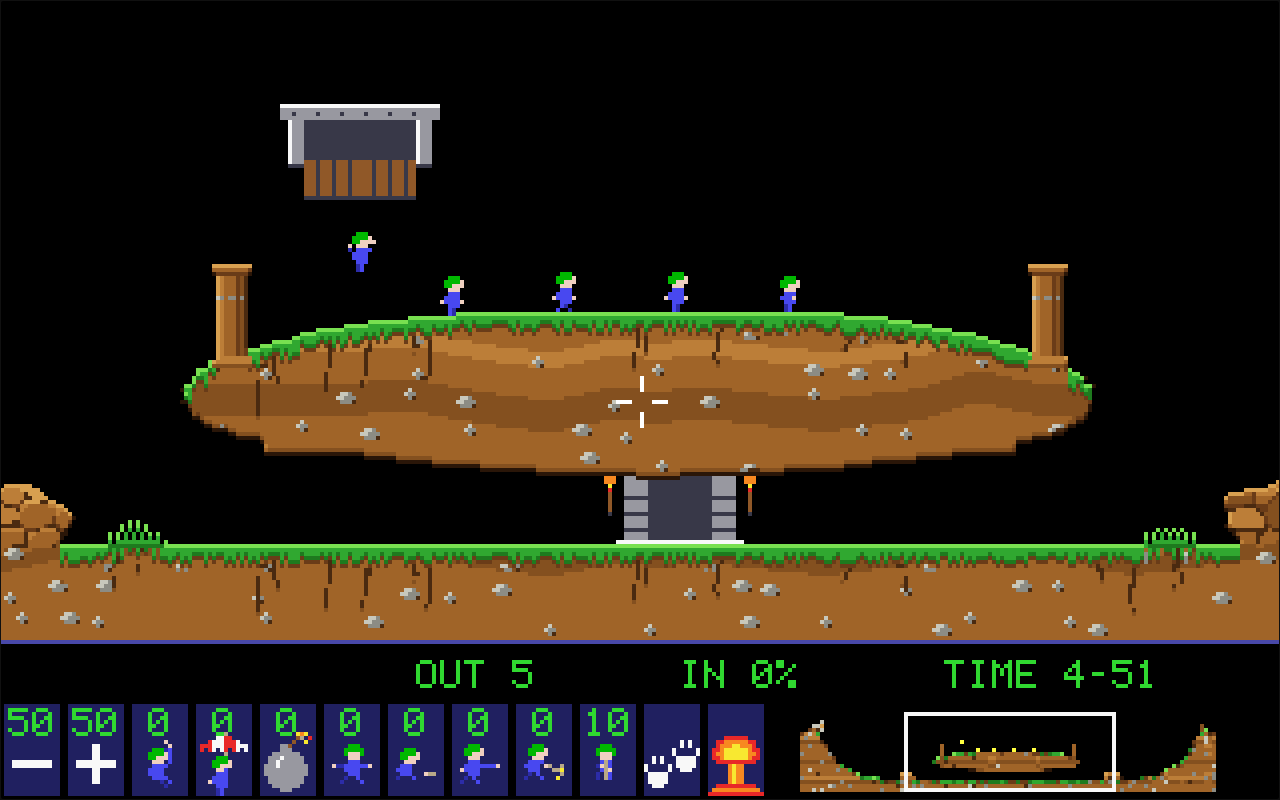
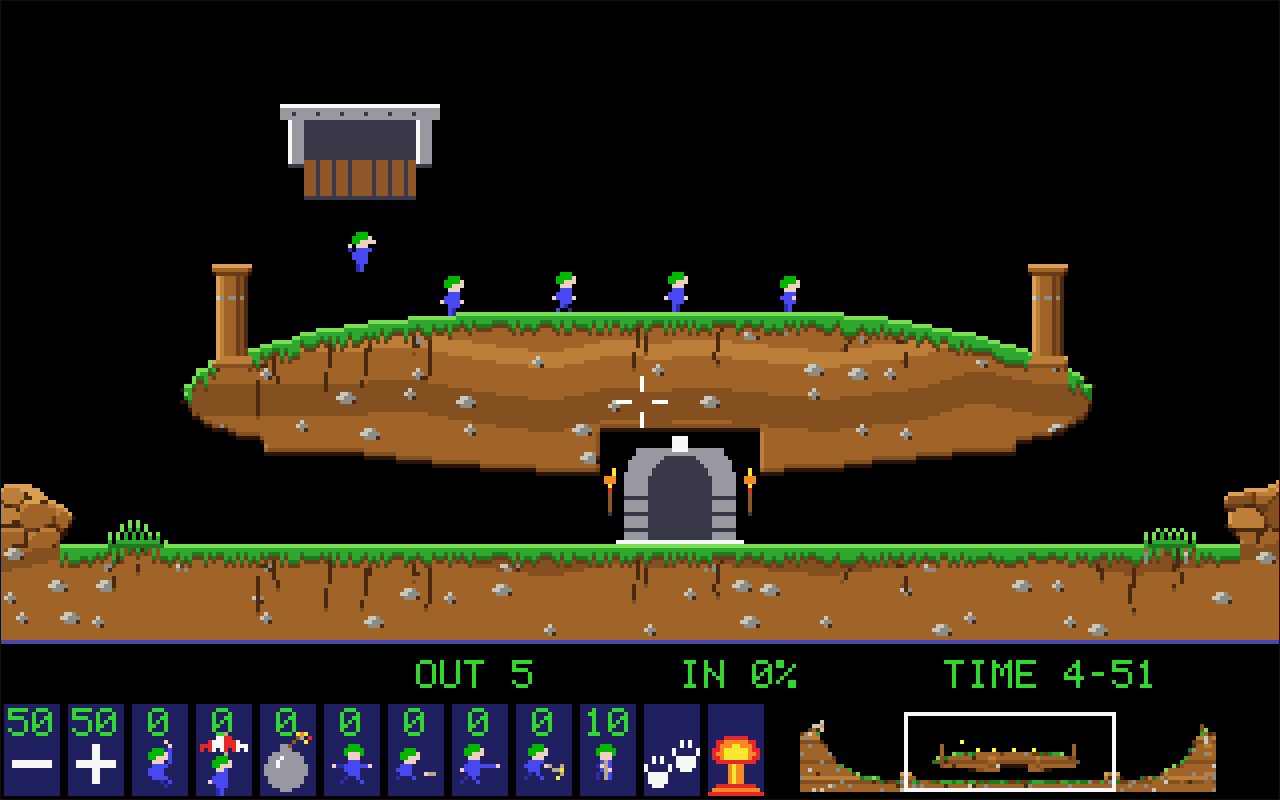
docs: publish play-test results and screenshot gallery (v0.1.51)
Make the default mode, bomber timing, visible hazards and actual screenshots reviewable; record independent fixes and keep unfinished original-layout content explicit.

Changed region(s): [[0.4688, 0.5312, 0.5938, 0.625], [0.7812, 0.9375, 0.8125, 0.9688]]

diff --git a/README.md b/README.md
@@ -16,20 +16,21 @@ SPDX-License-Identifier: GPL-3.0-or-later
 [![Vite](https://img.shields.io/github/package-json/dependency-version/marcelpetrick/BavarianLemmings/dev/vite?label=Vite&logo=vite&logoColor=white&color=646cff)](https://vite.dev/)
 [![Vitest](https://img.shields.io/github/package-json/dependency-version/marcelpetrick/BavarianLemmings/dev/vitest?label=Vitest&logo=vitest&logoColor=white&color=6e9f18)](https://vitest.dev/)
 [![Playwright](https://img.shields.io/github/package-json/dependency-version/marcelpetrick/BavarianLemmings/dev/@playwright/test?label=Playwright&logo=playwright&color=2ead33)](https://playwright.dev/)
+[![Coverage gate ≥95%](https://img.shields.io/badge/coverage%20gate-%E2%89%A595%25-brightgreen)](vite.config.ts)
 [![Node.js 24](https://img.shields.io/badge/Node.js-24-5fa04e.svg?logo=nodedotjs&logoColor=white)](https://nodejs.org/)
 
 An homage to **Lemmings**, the 1991 DOS game, running natively in the browser (Firefox and Chrome).
-It has a classic mode in the spirit of the 386-era original and a **Bavarian mode** in white and
-blue, with mountains, Alpine folk music, Lederhosen and Weißwurst traps.
+**Bavarian mode is the default**, with white and blue, mountains, Alpine folk music, Lederhosen,
+Dirndl outfits and Weißwurst traps. Classic mode remains available in settings; saved choices persist.
 
 ## Play
 
 Open **<https://marcelpetrick.github.io/BavarianLemmings/>** in a desktop browser. No install, no
 account. Progress and settings stay in your browser.
 
-> **Status:** playable prototype, v0.1.x. The first level (Fun 1), the eight skills, menus, the
-> panel, audio and both themes work. The remaining levels and features follow
-> [plan.md](plan.md).
+> **Status:** playable prototype, v0.1.51. All 30 Fun levels have winning replays. Eight skills,
+> desktop and tablet controls, three languages, both themes, audio and offline play work.
+> Tricky, Taxing, Mayhem and original-layout reconstruction remain open in [plan.md](plan.md).
 >
 > | Document | Answers |
 > | --- | --- |
@@ -47,6 +48,23 @@ Captured from the production build by [`scripts/screenshot.mjs`](scripts/screens
 | --- | --- |
 | ![Title screen, classic theme](docs/screenshots/classic-title.png) | ![Title screen, Bavarian theme](docs/screenshots/bavarian-title.png) |
 | ![Fun 1 in play, classic theme](docs/screenshots/classic-play.png) | ![Fun 1 in play, Bavarian theme](docs/screenshots/bavarian-play.png) |
+
+The enlarged bomber blast removes terrain within **16 logical pixels** (previously 8). Steel stays
+intact. The screenshots below use actual game events, with no edited simulation state.
+
+| Individual bomber blast | Confirmed nuke blast |
+| --- | --- |
+| ![Fun 6 bomber blast](docs/screenshots/bavarian-bomber-blast.png) | ![Fun 1 nuke blast](docs/screenshots/bavarian-nuke-blast.png) |
+
+[Bomber aftermath](docs/screenshots/bavarian-bomber-aftermath.png),
+[first nuke press](docs/screenshots/bavarian-nuke-armed.png), and
+[Fun 6 before the blast](docs/screenshots/bavarian-fun06.png).
+
+Whole-level inspection renders use a black background to expose overlaps outside the initial view:
+[Classic catalogue](docs/screenshots/levels-classic.png),
+[Bavarian catalogue](docs/screenshots/levels-bavarian.png).
+Regenerate them with `npm run levels:preview` and `BL_THEME=bavarian npm run levels:preview`;
+labelled contact sheets are written to `.tools/level-previews/`.
 
 ## Controls
 
@@ -68,6 +86,11 @@ tools) for themselves, so every command also has a plain key.
 | `Z` | Zoom (2× view) |
 | `Esc` | Back to the menu |
 | `↑` / `↓`, `Enter` | Move through and choose menu items |
+
+An individual bomber arms with one lemming click after selecting the skill, then starts its
+five-second countdown. A zero counter means none are available: Fun 1 supplies no bombers; Fun 6
+does. The global nuke needs a second press within one second; the first press displays its
+confirmation instruction. On touch, hold for one second or tap twice. Restart clears confirmation.
 
 Fast-forward, restart, frame step and zoom did not exist in the DOS original. The **Purist**
 setting switches them off.
@@ -137,7 +160,7 @@ GitHub workflows:
 | [`scripts/install-actionlint.sh`](scripts/install-actionlint.sh) | Download the pinned actionlint into `.tools/` |
 | [`scripts/check-constants.mjs`](scripts/check-constants.mjs) | List the unverified original-game constants; fail if one lacks a status or source |
 | [`scripts/check-translations.mjs`](scripts/check-translations.mjs) | Fail if a translation key is missing in a language or used in code but undefined |
-| [`scripts/screenshot.mjs`](scripts/screenshot.mjs) | Capture the README screenshots (`docs/screenshots/`) from the production build with Playwright; `npm run screenshots` |
+| [`scripts/screenshot.mjs`](scripts/screenshot.mjs) | Capture both themes and bomber/nuke states (`docs/screenshots/`) from the production build with Playwright; `npm run screenshots` |
 | [`scripts/docker-smoke.sh`](scripts/docker-smoke.sh) | Build the Docker image, run it, check index, JS asset, WAV MIME type and the game start; pipeline step with `BL_DOCKER=1` |
 | [`scripts/gantt.mjs`](scripts/gantt.mjs) | Generate the roadmap Gantt chart in plan.md from the task list (`--write`, `--check`) |
 | [`scripts/check-plan.mjs`](scripts/check-plan.mjs) | Fail if a vision.md ID has no plan.md task; `--summary` prints done/open per milestone |
@@ -159,3 +182,10 @@ Work follows [plan.md](plan.md): tick a task in the commit that finishes it, bum
 ## Licence
 
 [GPL-3.0-or-later](LICENSE) © 2026 Marcel Petrick
+
+## Resume here
+
+- State: v0.1.51; owner play-test fixes are implemented and covered by regression tests.
+- Check: `./localPipeline.sh --noRun`; include Docker with `BL_DOCKER=1`.
+- Run: `npm ci && npm run dev`. Regenerate browser captures with `npm run screenshots`.
+- Next: remaining original-layout and rating content in [plan.md](plan.md); 1.0 needs the owner.

diff --git a/plan.md b/plan.md
@@ -54,13 +54,13 @@ gantt
     section M3
     M3 full game loop, audio, languages, persistence (10/11) :active, m3, 2026-10-12, 1h
     section M4
-    M4 Bavarian theme (8/10) :active, m4, after m3, 1h
+    M4 Bavarian theme (9/10) :active, m4, after m3, 1h
     section M5
     M5 touch (5/6) :active, m5, after m4, 1h
     section M6
-    M6 content, all four ratings (40/139) :active, m6, after m5, 30h
+    M6 content, all four ratings (41/139) :active, m6, after m5, 30h
     section M7
-    M7 delivery (7/12) :active, m7, after m6, 2h
+    M7 delivery (9/12) :active, m7, after m6, 1h
 ```
 
 <!-- gantt:end -->
@@ -209,7 +209,7 @@ gantt
       public-domain tunes (Ländler, Zwiefacher, march), sources in `THIRD_PARTY.md`.
 - [x] M4.06 (R-05) Theme switch in settings and a "Bayern" button on the title screen; theme
       persisted; switching reloads assets without reloading the page.
-- [ ] M4.07 (P-01) e2e: switch to Bavarian, play the first level, screenshot for the README.
+- [x] M4.07 (P-01) e2e: switch to Bavarian, play the first level, screenshot for the README.
 - [ ] M4.08 (Q) Milestone bump to 0.4.0.
 - [x] M4.09 (V-10) Dirndl lemmings: a second Bavarian sheet with the same geometry, chosen per
       lemming (even ids), renderer only.
@@ -403,7 +403,7 @@ verifies them. Preserve the owner's untracked recording in `media/`.
       hatches, exits and hazards; validate winning replays after every layout change.
 - [x] M6.137 (A-01, V-02, Q) Select Bavarian mode for fresh or invalid settings while
       retaining an explicitly saved Classic preference.
-- [ ] M6.138 (V-05, Q) Capture real screenshots of both themes, representative levels and
+- [x] M6.138 (V-05, Q) Capture real screenshots of both themes, representative levels and
       the enlarged blast; update README and record review findings.
 
 - [x] M6.139 (G-09, V-04) Match every authored trap trigger to its visible sprite trigger
@@ -411,10 +411,10 @@ verifies them. Preserve the owner's untracked recording in `media/`.
 
 | Step | Estimated work | State |
 | --- | --- | --- |
-| Bomber and first-click diagnosis | 20–40 min | subagent running |
-| Level layout and overlap audit | 30–60 min | subagent running |
-| Bavarian defaults, sprites and screenshots | 20–40 min | subagent running |
-| Integration, full pipeline, review, Docker and CI | 20–40 min | waiting for changes |
+| Bomber and first-click diagnosis | 20–40 min | done; first click and confirmation tested |
+| Level layout and overlap audit | 30–60 min | done; 30 replays and both themes checked |
+| Bavarian defaults, sprites and screenshots | 20–40 min | done; 11 captures and inspection renders |
+| Integration, full pipeline, review, Docker and CI | 20–40 min | local gate and Docker pass; final CI checked after push |
 
 ## M7: delivery
 
@@ -427,9 +427,9 @@ verifies them. Preserve the owner's untracked recording in `media/`.
 - [x] M7.04 (Q) `.github/workflows/release.yml`: on `v*` tags, check that the tag matches
       `package.json`, run the pipeline, attach the zipped `dist/`.
 - [x] M7.05 (P-05) Service worker for offline play after the first load; e2e: reload offline.
-- [ ] M7.06 (Q, X-04) README complete: badges (Play, CI, Pages, Docker, Release, Licence, REUSE,
+- [x] M7.06 (Q, X-04) README complete: badges (Play, CI, Pages, Docker, Release, Licence, REUSE,
       Coverage, stack), setup, testing, pipeline, Docker, usage, screenshots of both modes.
-- [ ] M7.07 (Q) `/reviewBranch`, fix every finding; `review_YYYYMMDD.md` with status per finding.
+- [x] M7.07 (Q) `/reviewBranch`, fix every finding; `review_YYYYMMDD.md` with status per finding.
 - [x] M7.08 (Q) `/githubAbout`: description and topics applied.
 - [ ] M7.09 (Q) Final check against every vision.md item (`scripts/check-plan.mjs` plus a manual
       pass); pipeline green locally and in CI; Docker image runs; tree clean; everything pushed.
@@ -448,9 +448,12 @@ verifies them. Preserve the owner's untracked recording in `media/`.
 
 ## Resume here
 
-- State: v0.1.38; 30 Fun levels shipped. Three isolated subagents work on the owner's
-  bomber, layout and Bavarian-default requests. Remaining ratings and fidelity tasks stay open.
-- Check: `node scripts/check-plan.mjs --summary`, `git status --short`,
-  `git worktree list`.
-- Restart: `npm ci && npm run dev`; integrate subagent commits according to `AGENTS.md`,
-  then `scripts/commit.sh "fix: address owner play-test feedback" "Explain the verified change"`.
+- State: v0.1.51; M6.134–M6.139 and Dirndl/README/review follow-up are complete.
+  There are 30 playable Fun levels, with unchanged winning replay inputs. The 90 levels in
+  Tricky, Taxing and Mayhem and original-layout reconstruction remain open.
+- Results: 701 unit/integration tests, 22 desktop/tablet browser tests, line/function coverage
+  100%, branch coverage 97.84%. Both-theme object clearances and collision-mask guards pass.
+- Check: `node scripts/check-plan.mjs --summary`, `git status --short`, `gh run list -L 3`.
+- Restart: `npm ci && npm run dev`; `npm run screenshots`; `npm run levels:preview`.
+- Next: M6.129–M6.132 original-layout content; M6.123–M6.124 fidelity sources;
+  milestone versions and final vision audit/manual browser tests remain open. No 1.0 release yet.

diff --git a/vision.md b/vision.md
@@ -264,7 +264,7 @@ template for this project unless the owner decides otherwise.
 | Q-C7 | Modern conveniences | Yes: add whatever helps. |
 | Q-C8 | Progress | Save after every finished level. In the same browser, continue from where the player left off. |
 | Q-C9 | Devices | Mouse and keyboard, **and** pure touch play with a tablet layout for the UI. See the proposal in 3.4.1. |
-| Q-C10 | GitHub | Public repository, push in between. Blocked: `gh` is not logged in on this machine (see Resume here). CI for Markdown and code quality right away. |
+| Q-C10 | GitHub | Public repository; push authorized. GitHub authentication works. CI covers documentation and code quality. |
 
 ### Round D (2026-10-11): closed
 
@@ -318,6 +318,10 @@ No open questions remain. New ones go into a round E table here.
 | 2026-10-11 | Implementation is handed to another agent; this session ends with the planning documents | Owner |
 | 2026-10-11 | End-to-end tests run in Chromium only; Firefox is covered by manual play-testing (P-01 stays a requirement) | Owner: one browser is enough for automated tests, faster pipeline |
 | 2026-10-11 | No separate plain-tap option for touch (M5.05): a quick tap is already a press-aim-release without the aim, so it assigns at once to the best lemming within about 8 mm; the e2e tests on Chromium tablet emulation (landscape and portrait) won Fun 1 this way without problems | Agent, delegated by the owner (Q-D1) |
+| 2026-10-12 | Bavarian mode is the default; preserve explicitly saved theme choices | Owner play-test request |
+| 2026-10-12 | Bomber radius is 16 logical pixels, a deliberate departure from original behavior | Owner asks for larger blasts |
+| 2026-10-12 | Preserve the five-second bomber fuse and nuke confirmation; show the first nuke action visibly | Diagnose first-click behavior; keep existing G-05 and G-11 |
+| 2026-10-12 | Omit decorative maypoles when neither side of an exit has clear space | Owner prioritizes fitting layouts without wrong overlaps |
 
 ## 8. Status
 
@@ -335,25 +339,25 @@ No open questions remain. New ones go into a round E table here.
 | 2026-10-11 | Pixel art and audio by subagents, integrated | done (v0.0.23 to v0.0.33) |
 | 2026-10-11 | Playable prototype in the browser: menus, Fun 1, panel, themes, audio | done (v0.1.0) |
 | 2026-10-11 | `/updateDependencies`, `/githubAbout` applied | done (v0.1.2) |
-| – | Levels (M6), touch (M5), Docker/Pages/README (M7) | running in subagents |
+| 2026-10-12 | 30 Fun levels, touch, Docker, Pages and offline play | implemented |
+| 2026-10-12 | Owner play-test fixes, Dirndl, hazard geometry, screenshots and independent review | done |
 
 | 2026-10-12 | Bavarian default; saved Classic preserved; storage and Chromium checks pass | done |
 
 ## 9. Resume here
 
-- **State (v0.1.38):** 30 Fun levels, touch controls, offline play, Docker and Pages exist.
-  Tricky, Taxing and Mayhem content and original-layout fidelity remain unfinished.
-- **Owner decisions (2026-10-12):** use Bavarian mode by default; enlarge suicide-bomber
-  blasts; diagnose first-click behavior; improve level layouts and eliminate accidental overlaps;
-  provide real screenshots. Keep the five-second individual bomber fuse and make intentional
-  nuke confirmation clear.
-- **Running:** isolated subagents `bomb-fixes`, `level-design`, `bavarian-default` under
-  `.claude/worktrees/`. The integrator owns living documents, shared translations and final gates.
-- **Next:** integrate each logical change with `scripts/commit.sh`, check replays and screenshots,
-  run the full gate, independent review and Docker smoke test. Keep unfinished content tasks open.
+- **State (v0.1.51):** owner play-test follow-up is complete: 16-pixel blasts, visible nuke
+  confirmation, Bavarian defaults, Dirndl sprites, clear objects and matching hazard triggers.
+  README links nine browser screenshots and two whole-catalogue inspection renders.
+- **Verified:** 701 tests, 22 desktop/tablet browser checks, all 30 Fun winning replays,
+  both-theme object clearance, collision masks, independent review and Docker startup.
+- **Remaining:** 90 unimplemented Tricky/Taxing/Mayhem levels, original-layout fidelity,
+  original-game constant/key verification, milestone versions, final vision audit and manual
+  Firefox/Chrome rating checks. These requirements are open, not waived. 1.0 needs owner approval.
 - **Check:** `node scripts/check-plan.mjs --summary`, `node scripts/check-constants.mjs`,
   `git status --short`, `gh run list -L 3`.
-- **Restart:** `npm ci && npm run dev`; integrate as described in `AGENTS.md`.
+- **Restart:** `npm ci && npm run dev`; capture with `npm run screenshots`;
+  `BL_DOCKER=1 ./localPipeline.sh --noRun` runs the complete local gate.
 
 ## Sources (fact check 2026-10-11)
 

diff --git a/architecture.md b/architecture.md
@@ -1,7 +1,7 @@
 # BavarianLemmings: architecture
 
 > Living document. It answers **how** the game is built. [vision.md](vision.md) says **what**,
-> [plan.md](plan.md) lists the tasks. Owner: Marcel Petrick. Last update: 2026-10-11.
+> [plan.md](plan.md) lists the tasks. Owner: Marcel Petrick. Last update: 2026-10-12.
 
 ## 1. Decision rule (written before the candidates were scored)
 
@@ -20,7 +20,7 @@ A candidate that fails one gate is out, whatever its other merits.
 | H4: the playfield is a pixel-exact 320×200 logical image, scaled by an integer factor. The control panel can be replaced by a touch layout without touching the simulation. | V-01, V-03, C-06 |
 | H5: the fixed simulation tick is independent of the display refresh rate. | R-03, P-04 |
 | H6: 95 % test coverage is reachable: every piece of logic can be driven from a test without a browser. | AGENTS.md |
-| H7: end-to-end tests run in Firefox and Chrome on GitHub Actions. | P-01 |
+| H7: end-to-end tests run in Chromium on GitHub Actions; Firefox is checked manually. | P-01 |
 | H8: the build is static files that work on GitHub Pages, which cannot set custom HTTP headers, and from a plain nginx container. | P-03 |
 | H9: themes (Classic, Bavarian) and languages (EN, DE, Bavarian) are data, loaded at runtime, not code branches. | R-05, I-01 |
 
@@ -106,7 +106,7 @@ panel.
 | H4 swappable panel | pass | pass | weak (one canvas) | weak (one canvas) |
 | H5 fixed tick | pass | pass | pass | pass |
 | H6 95 % coverage | pass | pass (worker glue is hard to cover) | pass | pass |
-| H7 e2e in both browsers | pass | pass | pass | pass |
+| H7 automated Chromium and manual Firefox | pass | pass | pass | pass |
 | H8 static on Pages | pass | **fail with shared memory**, pass with copies | pass | pass |
 | H9 themes as data | pass | pass | pass | pass |
 | S1 simplicity | 5 | 3 | 4 | 2 |
@@ -353,7 +353,7 @@ gesture (A-02).
 | --- | --- | --- |
 | Unit | Vitest | every skill function against hand-built terrain fixtures (G-13 cases), terrain primitives, RNG, i18n, persistence, level validation |
 | Integration | Vitest | `step` over whole levels with recorded replays; determinism (two runs, identical state hashes); every shipped level solvable by its replay |
-| End-to-end | Playwright, Firefox + Chrome, desktop + tablet emulation | boot, title, play a level with the mouse, with the keyboard, with touch; theme and language switches; settings persist across reload; the screenshot for the README |
+| End-to-end | Playwright, Chromium, desktop + tablet emulation; manual Firefox | boot, title, play a level with the mouse, with the keyboard, with touch; theme and language switches; settings persist across reload; the screenshot for the README |
 | Static | ESLint (type-aware, import boundaries), Prettier, Stylelint, markdownlint, shellcheck, actionlint, REUSE | pipeline |
 
 The test hook `window.__bavarianLemmings` exposes
@@ -378,3 +378,19 @@ The test hook `window.__bavarianLemmings` exposes
 | Voice line generation method | Q-D9 |
 | Level codes (passwords) | Q-D6 |
 | Service worker for offline | after the vertical slice |
+
+## 16. Presentation follow-up (2026-10-12)
+
+- `persist/storage.ts` defaults missing or invalid themes to Bavarian, preserving saved choices.
+- `theme/themes.ts` selects Dirndl for even IDs. Sprite geometry and simulation remain identical.
+- Removal events carry optional entity IDs so explosion debris uses the matching costume.
+- `render/scenery.ts` chooses a clear side for a maypole or omits it. The renderer caches
+  placement from initial level terrain; later digging cannot move decorations.
+- Authored trap dimensions match `TRAP_TRIGGER_AREAS`. Every animation frame is checked for
+  terrain, boundary and gameplay-object overlaps in both themes.
+
+## Resume here
+
+- State: presentation changes retain the simulation/theme boundary and deterministic replays.
+- Check: `npm run test -- --run`; `npm run levels:preview`; `npm run screenshots`.
+- Restart: `npm ci && npm run dev`; remaining fidelity/content work is in [plan.md](plan.md).

diff --git a/review_20261012.md b/review_20261012.md
@@ -1,0 +1,54 @@
+# Owner play-test implementation review (2026-10-12)
+
+Base: `main` at HEAD for the standard `reviewBranch` skill. Its branch diff is empty because
+work lands directly on main. Separate implementation review covers `0c44be7` through `6e2bc2c`.
+Three isolated worktrees produced changes; a subagent independently inspected the integrated
+changes, and the integrator verified and corrected the scenery floor case.
+
+## Findings
+
+| Finding | Category | Severity | Status |
+| --- | --- | --- | --- |
+| Dirndl lemmings burst into Lederhosen pixels; explosion events lacked entity identity (`src/render/playfield.ts:49`). | Code | LOW | Fixed in `caaf7e2`; generic event IDs and five renderer regressions. |
+| A maypole base positioned at the exit floor could occupy solid ground (`src/render/scenery.ts:56`). | Code | LOW | Fixed before integration in `253f932`; floor-base and retained-catalogue regressions. |
+| Several authored hazard rectangles extended invisibly past their sprite trigger geometry. | Code | MEDIUM | Fixed in `6e2bc2c`; all 14 traps normalized and 30 level regressions. |
+
+No confirmed findings remain in the owner follow-up implementation. Broader vision tasks remain
+open in plan.md; this verdict does not claim that the full game or its original-layout fidelity is
+complete.
+
+## Validation and visual inspection
+
+- Full local gate: 701 tests pass, two opt-in render tests skip normally; 22 desktop/tablet E2E
+  tests pass. Coverage: lines/functions 100%, branches 97.84%, statements 99.95%.
+- All 30 winning replay inputs remain unchanged. Object silhouettes, terrain clearance and trap
+  geometry are checked in both themes across every animation frame.
+- Nine actual browser captures plus two whole-catalogue inspection renders are regenerated.
+  The integrator inspected Bavarian play, bomber blast, nuke confirmation and nuke blast images.
+- Docker image builds; index and hashed JS serve HTTP 200, WAV MIME is correct, and Chromium
+  starts the title screen without page errors. Final documentation gate also enables Docker.
+- User recording `media/2026-10-12 09-21-10.mkv` is preserved and locally excluded from commits.
+
+## GitHub About audit
+
+The `githubAbout` skill was used read-only. Existing description, ten topics and Pages homepage
+remain accurate; no public metadata change is needed.
+
+Current description: browser homage to DOS Lemmings with deterministic per-pixel simulation,
+eight skills, TypeScript, Canvas 2D and a Bavarian theme, without original assets, GPL-3.0.
+Evidence: `src/sim`, `tests/sim`, `src/render`, `src/theme`, `THIRD_PARTY.md` and `LICENSE`.
+
+Topics: `bavaria`, `browser-game`, `dos-games`, `game-remake`, `html5-canvas`, `lemmings`,
+`pixel-art`, `puzzle-game`, `retro-gaming`, `typescript`.
+
+Optional shorter description: “A browser puzzle game with 30 Fun levels, destructible pixel terrain
+and a Bavarian theme. TypeScript and Canvas 2D; no original assets.”
+Technical alternative: “Deterministic TypeScript simulation of eight Lemmings skills with recorded
+winning replays, Canvas 2D rendering and interchangeable Classic/Bavarian themes.”
+Possible topic swaps: `vitest`, `playwright`, `canvas-game`; no unmeasured performance claims.
+
+## Resume here
+
+- State: owner play-test implementation has no open confirmed review findings.
+- Check: `BL_DOCKER=1 ./localPipeline.sh --noRun`; `gh run list -L 3`; `git status --short`.
+- Restart: `npm ci && npm run dev`; continue remaining M6 content and final audit tasks in plan.md.

diff --git a/AGENTS.md b/AGENTS.md
@@ -16,9 +16,10 @@ current milestone in `plan.md`.
 
 ## Current phase
 
-**Implementation runs; a playable prototype exists (v0.1.x).** Fun 1 plays end to end in the
-browser with mouse and keyboard, both themes, audio, three languages. The open work is in
-`plan.md`: levels (M6), touch (M5), delivery (M7). The owner has delegated the remaining product
+**Implementation runs; a playable prototype exists (v0.1.x).** All 30 Fun levels play end to end
+in the browser with mouse and keyboard, both themes, audio, three languages. The open work is in
+`plan.md`: original-layout reconstruction and the three remaining ratings (M6), fidelity checks
+and final release validation (M7). The owner has delegated the remaining product
 decisions (see the assumptions table in `plan.md`). Ask only for decisions that are really the
 owner's: an irreversible action, a change on shared infrastructure, a real trade-off between
 stated goals.
